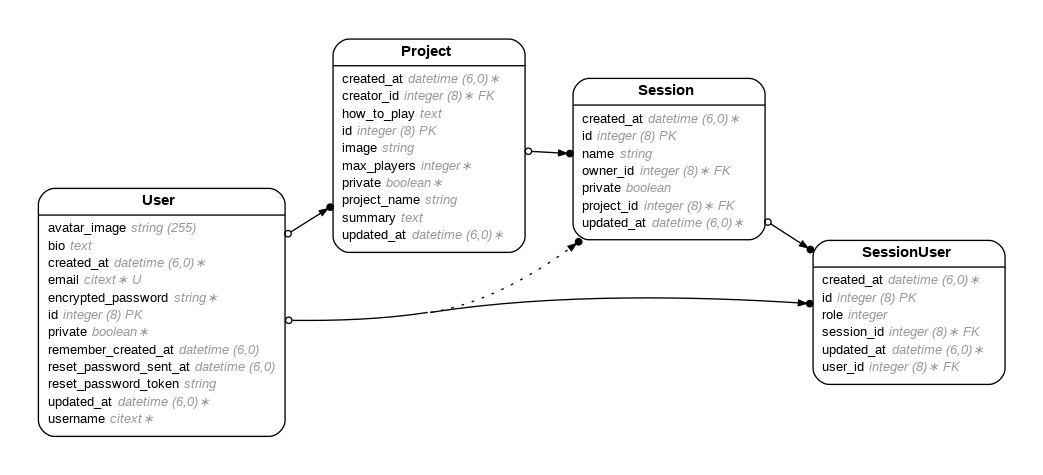
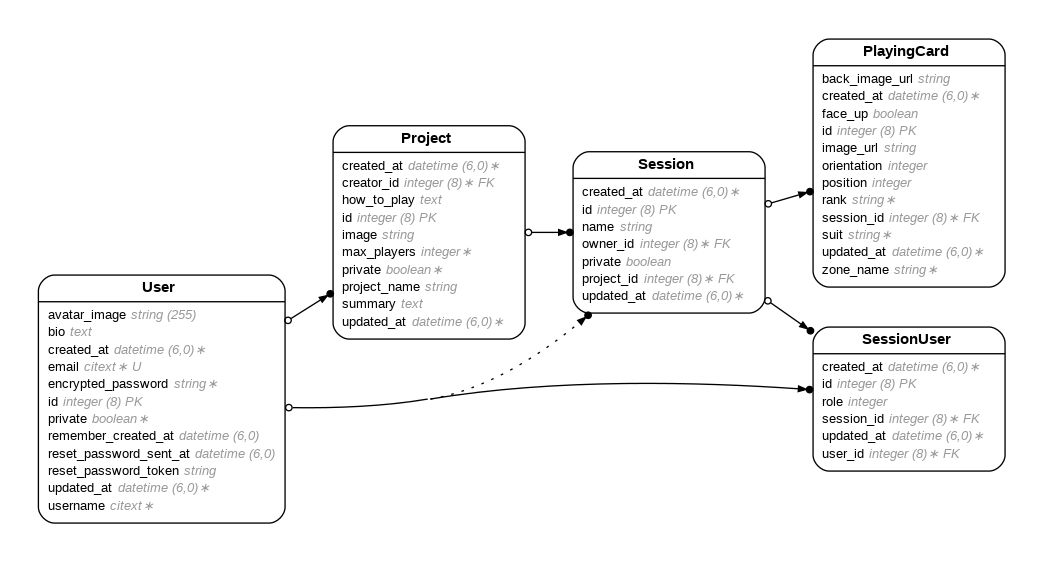
added playing cards

Changed region(s): [[0.0307, 0.0589, 0.9818, 0.9432], [0.2761, 0.7074, 0.4295, 0.7368], [0.2761, 0.6484, 0.4295, 0.6779]]

diff --git a/app/controllers/playing_cards_controller.rb b/app/controllers/playing_cards_controller.rb
@@ -1,0 +1,70 @@
+class PlayingCardsController < ApplicationController
+  before_action :set_playing_card, only: %i[ show edit update destroy ]
+
+  # GET /playing_cards or /playing_cards.json
+  def index
+    @playing_cards = PlayingCard.all
+  end
+
+  # GET /playing_cards/1 or /playing_cards/1.json
+  def show
+  end
+
+  # GET /playing_cards/new
+  def new
+    @playing_card = PlayingCard.new
+  end
+
+  # GET /playing_cards/1/edit
+  def edit
+  end
+
+  # POST /playing_cards or /playing_cards.json
+  def create
+    @playing_card = PlayingCard.new(playing_card_params)
+
+    respond_to do |format|
+      if @playing_card.save
+        format.html { redirect_to @playing_card, notice: "Playing card was successfully created." }
+        format.json { render :show, status: :created, location: @playing_card }
+      else
+        format.html { render :new, status: :unprocessable_entity }
+        format.json { render json: @playing_card.errors, status: :unprocessable_entity }
+      end
+    end
+  end
+
+  # PATCH/PUT /playing_cards/1 or /playing_cards/1.json
+  def update
+    respond_to do |format|
+      if @playing_card.update(playing_card_params)
+        format.html { redirect_to @playing_card, notice: "Playing card was successfully updated." }
+        format.json { render :show, status: :ok, location: @playing_card }
+      else
+        format.html { render :edit, status: :unprocessable_entity }
+        format.json { render json: @playing_card.errors, status: :unprocessable_entity }
+      end
+    end
+  end
+
+  # DELETE /playing_cards/1 or /playing_cards/1.json
+  def destroy
+    @playing_card.destroy!
+
+    respond_to do |format|
+      format.html { redirect_to playing_cards_path, status: :see_other, notice: "Playing card was successfully destroyed." }
+      format.json { head :no_content }
+    end
+  end
+
+  private
+    # Use callbacks to share common setup or constraints between actions.
+    def set_playing_card
+      @playing_card = PlayingCard.find(params.expect(:id))
+    end
+
+    # Only allow a list of trusted parameters through.
+    def playing_card_params
+      params.expect(playing_card: [ :session_id, :suit, :rank, :zone_name, :face_up, :orientation, :position, :image_url, :back_image_url ])
+    end
+end

diff --git a/db/schema.rb b/db/schema.rb
@@ -10,10 +10,26 @@
 #
 # It's strongly recommended that you check this file into your version control system.
 
-ActiveRecord::Schema[8.0].define(version: 2026_01_15_172040) do
+ActiveRecord::Schema[8.0].define(version: 2026_01_15_182346) do
   # These are extensions that must be enabled in order to support this database
   enable_extension "citext"
   enable_extension "pg_catalog.plpgsql"
+
+  create_table "playing_cards", force: :cascade do |t|
+    t.bigint "session_id", null: false
+    t.string "suit", null: false
+    t.string "rank", null: false
+    t.string "zone_name", null: false
+    t.boolean "face_up", default: false
+    t.integer "orientation", default: 0
+    t.integer "position"
+    t.string "image_url"
+    t.string "back_image_url"
+    t.datetime "created_at", null: false
+    t.datetime "updated_at", null: false
+    t.index ["session_id", "zone_name", "position"], name: "index_playing_cards_on_session_id_and_zone_name_and_position"
+    t.index ["session_id"], name: "index_playing_cards_on_session_id"
+  end
 
   create_table "projects", force: :cascade do |t|
     t.bigint "creator_id", null: false
@@ -209,6 +225,7 @@ ActiveRecord::Schema[8.0].define(version: 2026_01_15_172040) do
     t.index ["reset_password_token"], name: "index_users_on_reset_password_token", unique: true
   end
 
+  add_foreign_key "playing_cards", "sessions"
   add_foreign_key "projects", "users", column: "creator_id"
   add_foreign_key "session_users", "sessions"
   add_foreign_key "session_users", "users"

diff --git a/app/models/playing_card.rb b/app/models/playing_card.rb
@@ -1,0 +1,43 @@
+# == Schema Information
+#
+# Table name: playing_cards
+#
+#  id             :bigint           not null, primary key
+#  back_image_url :string
+#  face_up        :boolean          default(FALSE)
+#  image_url      :string
+#  orientation    :integer          default(0)
+#  position       :integer
+#  rank           :string           not null
+#  suit           :string           not null
+#  zone_name      :string           not null
+#  created_at     :datetime         not null
+#  updated_at     :datetime         not null
+#  session_id     :bigint           not null
+#
+# Indexes
+#
+#  index_playing_cards_on_session_id                             (session_id)
+#  index_playing_cards_on_session_id_and_zone_name_and_position  (session_id,zone_name,position)
+#
+# Foreign Keys
+#
+#  fk_rails_...  (session_id => sessions.id)
+#
+class PlayingCard < ApplicationRecord
+  belongs_to :session
+
+  enum orientation: { normal: 0, rotated90: 1, rotated180: 2, rotated270: 3 }
+
+  validates :suit, presence: true, inclusion: { in: ["hearts", "diamonds", "clubs", "spades"] }
+  validates :rank, presence: true, inclusion: { in: ["A","2","3","4","5","6","7","8","9","10","J","Q","K"] }
+  validates :zone_name, inclusion: { in: ["Neutral", "Player 1", "Player 2", "Player 3", "Player 4"] }
+
+  def card_name
+    "#{rank} of #{suit.capitalize}"
+  end
+
+  def display_image
+    face_up? ? image_url : back_image_url
+  end
+end

diff --git a/db/migrate/20260115182346_create_playing_cards.rb b/db/migrate/20260115182346_create_playing_cards.rb
@@ -1,0 +1,19 @@
+class CreatePlayingCards < ActiveRecord::Migration[8.0]
+  def change
+    create_table :playing_cards do |t|
+      t.references :session, null: false, foreign_key: true
+      t.string :suit, null: false
+      t.string :rank, null: false
+      t.string :zone_name, null: false
+      t.boolean :face_up, default: false
+      t.integer :orientation, default: 0
+      t.integer :position
+      t.string :image_url
+      t.string :back_image_url
+
+      t.timestamps
+    end
+
+    add_index :playing_cards, [:session_id, :zone_name, :position]
+  end
+end

diff --git a/app/models/session.rb b/app/models/session.rb
@@ -24,7 +24,7 @@ class Session < ApplicationRecord
   belongs_to :project, required: true, class_name: "Project", foreign_key: "project_id"
   belongs_to :owner, required: true, class_name: "User", foreign_key: "owner_id"
 
-  has_many :session_users, class_name: "SessionUser", foreign_key: "session_id", dependent: :destroy
+  has_many :session_users, dependent: :destroy
   has_many :users, through: :session_users
-  has_many :session_cards, class_name: "SessionCard", foreign_key: "session_id", dependent: :destroy
+  has_many :playing_cards, dependent: :destroy
 end

diff --git a/app/models/session_user.rb b/app/models/session_user.rb
@@ -24,5 +24,5 @@ class SessionUser < ApplicationRecord
   belongs_to :session
   belongs_to :user
 
-  enum role: { host: 0, player: 1, observer: 2 }
+  #enum role: { host: 0, player: 1, observer: 2 }
 end

diff --git a/config/routes.rb b/config/routes.rb
@@ -1,4 +1,5 @@
 Rails.application.routes.draw do
+  resources :playing_cards
   resources :session_users
   resources :sessions
   resources :projects

diff --git a/app/models/user.rb b/app/models/user.rb
@@ -34,3 +34,4 @@ class User < ApplicationRecord
   has_many :session_users, dependent: :destroy
   has_many :sessions, through: :session_users
 end
+
